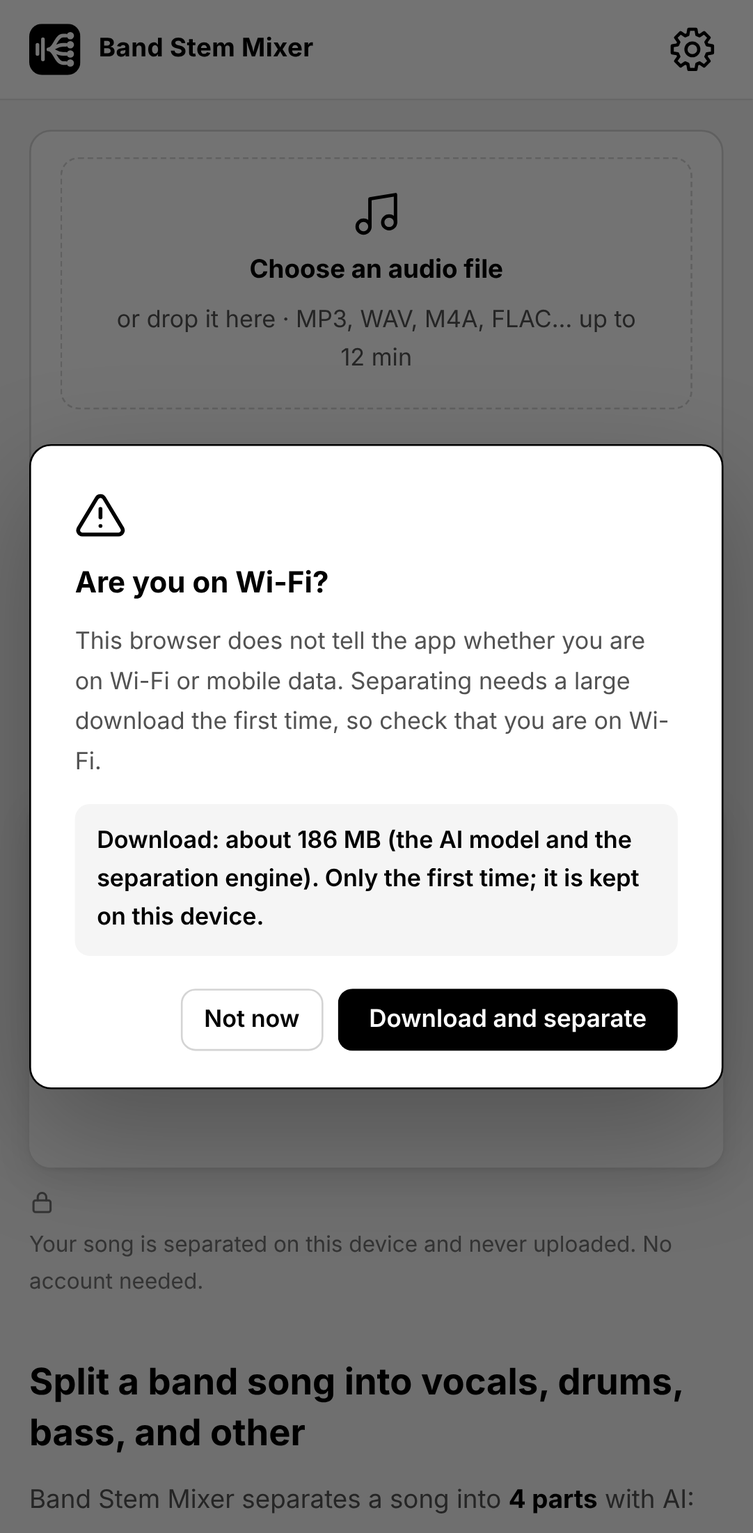
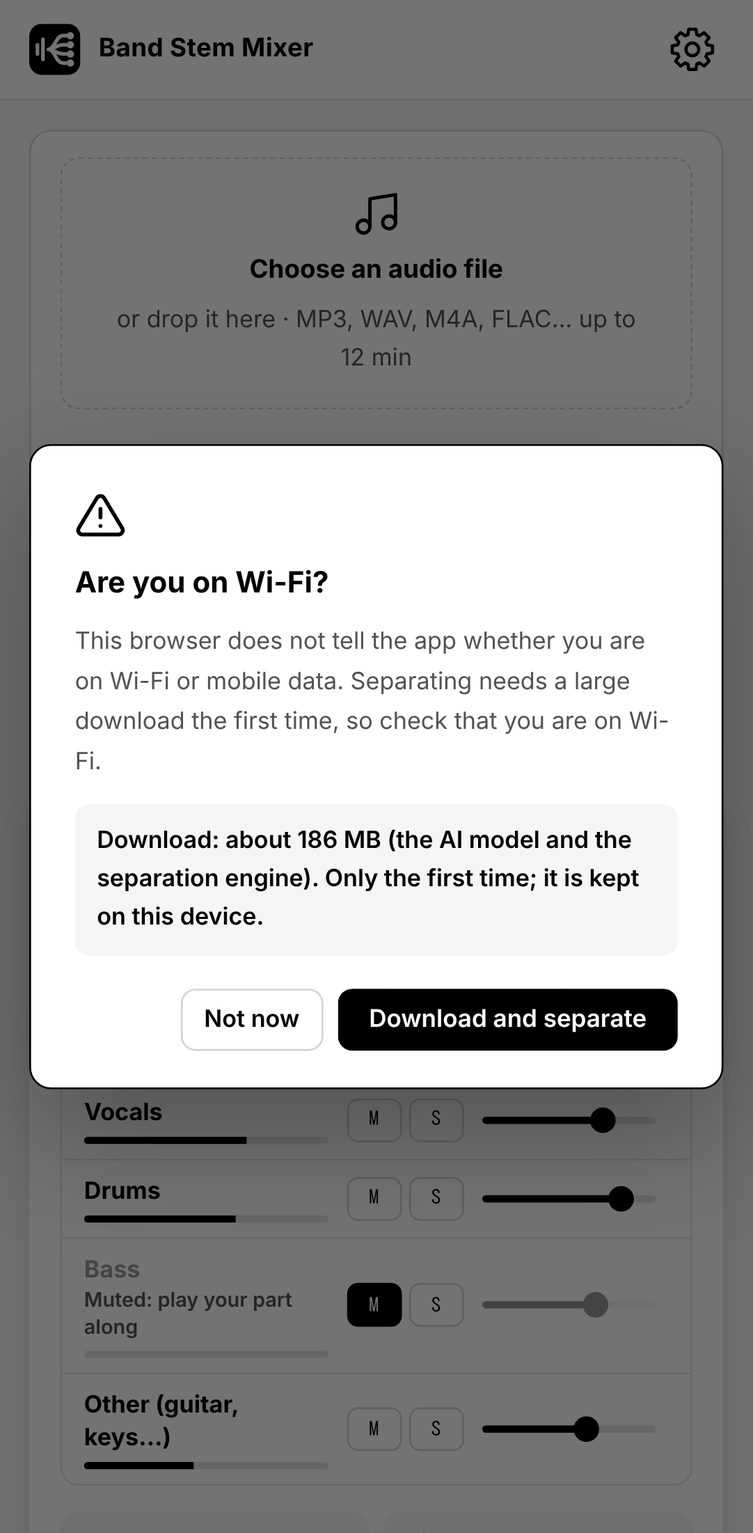
初期画面に「分離するとできること」のプレビューを表示
ミキサー欄の空の状態を、分離後の画面の例（コード・旋律とハモリの表示、
4 パートのフェーダー、ベースをミュートした例）と、6 つの機能
（ミュート・ソロ・コードと BPM・ハモリ・キー・MP3 保存）のカード、
ファイルを選ぶボタンに替えた。ガイドの通信確認の画面写真を撮り直し。

Claude-Session: https://claude.ai/code/session_01FBcjAgg3NqmVihitPpuDYB

diff --git a/public/bandstemmixer/ja/index.html b/public/bandstemmixer/ja/index.html
@@ -159,9 +159,46 @@
     .progress .row { display: flex; justify-content: space-between; align-items: center; gap: 8px; }
 
     /* Mixer panel */
-    .empty { padding: 40px 24px; text-align: center; color: var(--subtle); font-size: 13px; }
-    .empty .slots { display: flex; justify-content: center; gap: 8px; margin-bottom: 14px; }
-    .empty .slots span { width: 10px; height: 44px; border-radius: 5px; background: var(--line); }
+    /* Before separating: a picture of the mixer you get, and what you can do with it */
+    .empty { padding: 18px 16px 20px; display: flex; flex-direction: column; gap: 14px; }
+    .preview-head { display: flex; align-items: center; justify-content: space-between; gap: 8px; }
+    .preview-head h2 { margin: 0; font-size: 15px; line-height: 1.4; }
+    .badge { flex: none; padding: 0 8px; border: 1px solid var(--line-strong); border-radius: 999px; color: var(--subtle); font-size: 11px; line-height: 20px; }
+    .mock { border: 1px solid var(--line); border-radius: 10px; overflow: hidden; user-select: none; -webkit-user-select: none; pointer-events: none; }
+    .mock-roll { padding: 10px 12px 8px; border-bottom: 1px solid var(--line); }
+    .mock-chords { position: relative; display: grid; grid-template-columns: repeat(4, minmax(0, 1fr)); font-size: 14px; font-weight: 700; line-height: 1.4; }
+    .mock-chords em { position: absolute; right: 0; top: 1px; color: var(--subtle); font: 600 11px var(--mono); }
+    .mock-roll svg { display: block; width: 100%; height: 60px; }
+    .mock-roll svg * { vector-effect: non-scaling-stroke; }
+    .mock-roll .ink { fill: var(--ink); }
+    .mock-roll .tick { stroke: var(--line-strong); stroke-width: 1; }
+    .mock-roll .mel { fill: none; stroke: var(--subtle); stroke-width: 2; stroke-linecap: round; stroke-linejoin: round; }
+    .mock-strip { display: grid; grid-template-columns: minmax(84px, 150px) auto minmax(0, 1fr); align-items: center; gap: 12px; padding: 8px 12px; border-bottom: 1px solid var(--line); }
+    .mock-strip:last-child { border-bottom: 0; }
+    @media (max-width: 560px) { .mock-strip { grid-template-columns: minmax(0, 1fr) auto 32%; gap: 10px; } }
+    .mock-strip .sname b { font-size: 13px; line-height: 1.4; }
+    .mock-strip .sname small { color: var(--muted); font-size: 11px; font-weight: 600; line-height: 1.4; }
+    .mock-ms { display: flex; gap: 4px; }
+    .mock-ms span { width: 30px; height: 24px; border: 1px solid var(--line-strong); border-radius: 6px; font: 600 11px var(--mono); display: inline-flex; align-items: center; justify-content: center; }
+    .mock-ms span.on { background: var(--ink); border-color: var(--ink); color: var(--paper); }
+    .mock-fader { position: relative; height: 4px; margin-right: 7px; border-radius: 2px; background: var(--line); }
+    .mock-fader i { position: absolute; left: 0; top: 0; bottom: 0; width: var(--v); border-radius: 2px; background: var(--ink); }
+    .mock-fader i::after { content: ""; position: absolute; right: -7px; top: -5px; width: 14px; height: 14px; border-radius: 50%; background: var(--ink); }
+    .mock-strip.off b, .mock-strip.off .mock-fader { opacity: .4; }
+    /* Level meters move a little, so it reads as music playing */
+    .mock-strip .meter > div { width: 40%; animation: meter 1.1s ease-in-out infinite alternate; }
+    .mock-strip:nth-child(3) .meter > div { animation-duration: .7s; }
+    .mock-strip:nth-child(5) .meter > div { animation-duration: 1.4s; animation-delay: -.5s; }
+    .mock-strip.off .meter > div { width: 0; animation: none; }
+    @keyframes meter { 0% { width: 25%; } 50% { width: 70%; } 100% { width: 45%; } }
+    .feats { display: grid; grid-template-columns: repeat(3, minmax(0, 1fr)); gap: 8px; margin: 0; padding: 0; list-style: none; }
+    @media (max-width: 560px) { .feats { grid-template-columns: repeat(2, minmax(0, 1fr)); } }
+    .feat { display: flex; flex-direction: column; gap: 2px; padding: 10px 12px 12px; border-radius: 10px; background: var(--hover-fill); }
+    .feat svg { flex: none; margin-bottom: 4px; color: var(--ink); }
+    .feat b { font-size: 13px; line-height: 1.4; }
+    .feat span { color: var(--muted); font-size: 12px; line-height: 1.5; }
+    .preview-cta { display: flex; flex-direction: column; align-items: center; gap: 6px; text-align: center; }
+    .preview-cta .primary { height: 44px; padding: 0 22px; font-size: 14px; }
     .transport { display: flex; align-items: center; gap: 12px; padding: 14px 16px; border-bottom: 1px solid var(--line); }
     .play { appearance: none; width: 52px; height: 52px; flex: none; border: 0; border-radius: 50%; background: var(--ink); color: var(--paper); cursor: pointer; display: inline-flex; align-items: center; justify-content: center; touch-action: manipulation; }
     .play:active:not(:disabled) { background: var(--press); }
@@ -292,8 +329,52 @@
 
       <section class="panel out" aria-label="ミキサー" data-i18n-attr="aria-label:mixer">
         <div class="empty" id="empty">
-          <div class="slots" aria-hidden="true"><span></span><span></span><span></span><span></span><span></span><span></span></div>
-          <span data-i18n="empty">曲を選んで分離すると、ボーカル・ベース・ドラム・その他（ギター・鍵盤など）がここに並び、それぞれの音量を変えられます。</span>
+          <div class="preview-head">
+            <h2 data-i18n="preview.title">分離すると、こんなことができます</h2>
+            <span class="badge" data-i18n="preview.badge">画面の例</span>
+          </div>
+          <div class="mock" aria-hidden="true">
+            <div class="mock-roll">
+              <div class="mock-chords"><span>Am</span><span>F</span><span>C</span><span>G</span><em>BPM 120</em></div>
+              <svg viewBox="0 0 400 54" preserveAspectRatio="none" aria-hidden="true">
+                <path class="tick" d="M0 4.5h400M25 2v5M50 2v5M75 2v5M100 2v5M125 2v5M150 2v5M175 2v5M200 2v5M225 2v5M250 2v5M275 2v5M300 2v5M325 2v5M350 2v5M375 2v5"/>
+                <g class="ink"><rect x="4" y="24" width="42" height="5" rx="2.5"/><rect x="52" y="20" width="42" height="5" rx="2.5"/><rect x="104" y="28" width="66" height="5" rx="2.5"/><rect x="176" y="24" width="20" height="5" rx="2.5"/><rect x="204" y="20" width="44" height="5" rx="2.5"/><rect x="254" y="16" width="40" height="5" rx="2.5"/><rect x="304" y="24" width="44" height="5" rx="2.5"/><rect x="354" y="28" width="42" height="5" rx="2.5"/></g>
+                <path class="mel" d="M4 42h42M52 38c3 0 4-0.5 6-0.5h36M104 48h64M176 42h20M204 38h44M254 34c2 0 3 1 6 1h34M304 42h44M354 48c2 0 3 1 6 0 3-1 4 1 6 0s4 1 6 0 4-1 6 0h12"/>
+              </svg>
+            </div>
+              <div class="mock-strip">
+                <div class="sname"><b data-i18n="stem.vocals">ボーカル</b><div class="meter"><div></div></div></div>
+                <div class="mock-ms"><span class="">M</span><span class="">S</span></div>
+                <div class="mock-fader"><i style="--v:70%"></i></div>
+              </div>
+              <div class="mock-strip">
+                <div class="sname"><b data-i18n="stem.drums">ドラム</b><div class="meter"><div></div></div></div>
+                <div class="mock-ms"><span class="">M</span><span class="">S</span></div>
+                <div class="mock-fader"><i style="--v:80%"></i></div>
+              </div>
+              <div class="mock-strip off">
+                <div class="sname"><b data-i18n="stem.bass">ベース</b><small data-i18n="preview.muted">ミュート中：自分で弾いて合わせる</small><div class="meter"><div></div></div></div>
+                <div class="mock-ms"><span class="on">M</span><span class="">S</span></div>
+                <div class="mock-fader"><i style="--v:65%"></i></div>
+              </div>
+              <div class="mock-strip">
+                <div class="sname"><b data-i18n="stem.other">その他（ギター・鍵盤など）</b><div class="meter"><div></div></div></div>
+                <div class="mock-ms"><span class="">M</span><span class="">S</span></div>
+                <div class="mock-fader"><i style="--v:60%"></i></div>
+              </div>
+          </div>
+          <ul class="feats">
+            <li class="feat"><svg width="20" height="20" viewBox="0 0 24 24" fill="none" stroke="currentColor" stroke-width="1.8" stroke-linecap="round" stroke-linejoin="round" aria-hidden="true"><path d="M11 5 6 9H3v6h3l5 4z"/><path d="m16 9 6 6M22 9l-6 6"/></svg><b data-i18n="feat.mute.t">自分のパートを消す</b><span data-i18n="feat.mute.d">残りのパートに合わせて演奏できます（マイナスワン）。ボーカルを消せばカラオケにも。</span></li>
+            <li class="feat"><svg width="20" height="20" viewBox="0 0 24 24" fill="none" stroke="currentColor" stroke-width="1.8" stroke-linecap="round" stroke-linejoin="round" aria-hidden="true"><path d="M3 18v-6a9 9 0 0 1 18 0v6"/><path d="M21 19a2 2 0 0 1-2 2h-1v-6h3zM3 19a2 2 0 0 0 2 2h1v-6H3z"/></svg><b data-i18n="feat.solo.t">ソロで耳コピ</b><span data-i18n="feat.solo.d">ベースやドラムだけを聴いて、フレーズを聴き取れます。</span></li>
+            <li class="feat"><svg width="20" height="20" viewBox="0 0 24 24" fill="none" stroke="currentColor" stroke-width="1.8" stroke-linecap="round" stroke-linejoin="round" aria-hidden="true"><rect x="3" y="4" width="18" height="16" rx="2"/><path d="M9 4v16M15 4v16"/><path d="M7 4v9M11 4v9M17 4v9" stroke-width="3"/></svg><b data-i18n="feat.chords.t">コードと BPM</b><span data-i18n="feat.chords.d">テンポと、拍ごとのコードを推定します。コードは編集できます。</span></li>
+            <li class="feat"><svg width="20" height="20" viewBox="0 0 24 24" fill="none" stroke="currentColor" stroke-width="1.8" stroke-linecap="round" stroke-linejoin="round" aria-hidden="true"><path d="M9 18V5l12-2v13"/><circle cx="6" cy="18" r="3"/><circle cx="18" cy="16" r="3"/></svg><b data-i18n="feat.harm.t">ハモリを作る</b><span data-i18n="feat.harm.d">ボーカルの 3 度・5 度上（下）のハモリを、歌った人の声とガイド音で作ります。</span></li>
+            <li class="feat"><svg width="20" height="20" viewBox="0 0 24 24" fill="none" stroke="currentColor" stroke-width="1.8" stroke-linecap="round" stroke-linejoin="round" aria-hidden="true"><path d="m7 9 5-5 5 5M7 15l5 5 5-5"/></svg><b data-i18n="feat.key.t">キーを変える</b><span data-i18n="feat.key.d">テンポはそのまま、最大 1 オクターブ上げ下げできます。</span></li>
+            <li class="feat"><svg width="20" height="20" viewBox="0 0 24 24" fill="none" stroke="currentColor" stroke-width="1.8" stroke-linecap="round" stroke-linejoin="round" aria-hidden="true"><path d="M12 3v12"/><path d="m7 10 5 5 5-5"/><path d="M5 21h14"/></svg><b data-i18n="feat.save.t">MP3 で保存</b><span data-i18n="feat.save.d">パートごとに、または作ったミックスを保存できます。</span></li>
+          </ul>
+          <div class="preview-cta">
+            <button class="primary" id="previewPick" type="button" data-i18n="preview.cta">曲を選んで試してみる</button>
+            <span class="hint" data-i18n="empty">曲はこの端末の中で、ボーカル・ドラム・ベース・その他（ギター・鍵盤など）に分かれます。</span>
+          </div>
         </div>
         <div id="mixer" hidden>
           <div class="transport">
@@ -518,7 +599,23 @@
           "done": "Done in {time}. Press play.",
           "canceled": "Separation canceled.",
           "mixer": "Mixer",
-          "empty": "Choose a song and separate it. Vocals, bass, drums, and other (guitar, keys…) appear here, each with its own fader.",
+          "empty": "Your song is split into vocals, drums, bass, and other (guitar, keys…) on this device.",
+          "preview.title": "What you can do after separating",
+          "preview.badge": "Example",
+          "preview.muted": "Muted: play your part along",
+          "preview.cta": "Choose a song and try it",
+          "feat.mute.t": "Mute your part",
+          "feat.mute.d": "Play along with the rest of the band (a minus-one track), or turn off the vocals for karaoke.",
+          "feat.solo.t": "Solo to learn by ear",
+          "feat.solo.d": "Hear only the bass or the drums to copy a phrase.",
+          "feat.chords.t": "Chords & BPM",
+          "feat.chords.d": "The tempo and a chord on every beat, which you can edit.",
+          "feat.harm.t": "Make a harmony",
+          "feat.harm.d": "A 3rd or a 5th above or below the vocals, in the singer's own voice and as a guide tone.",
+          "feat.key.t": "Change the key",
+          "feat.key.d": "Up or down by up to an octave, without changing the tempo.",
+          "feat.save.t": "Save as MP3",
+          "feat.save.d": "Each part, or the mix you made.",
           "play": "Play",
           "pause": "Stop",
           "position": "Position",
@@ -661,7 +758,23 @@
           "done": "{time} で分離しました。再生してください。",
           "canceled": "分離をキャンセルしました。",
           "mixer": "ミキサー",
-          "empty": "曲を選んで分離すると、ボーカル・ベース・ドラム・その他（ギター・鍵盤など）がここに並び、それぞれの音量を変えられます。",
+          "empty": "曲はこの端末の中で、ボーカル・ドラム・ベース・その他（ギター・鍵盤など）に分かれます。",
+          "preview.title": "分離すると、こんなことができます",
+          "preview.badge": "画面の例",
+          "preview.muted": "ミュート中：自分で弾いて合わせる",
+          "preview.cta": "曲を選んで試してみる",
+          "feat.mute.t": "自分のパートを消す",
+          "feat.mute.d": "残りのパートに合わせて演奏できます（マイナスワン）。ボーカルを消せばカラオケにも。",
+          "feat.solo.t": "ソロで耳コピ",
+          "feat.solo.d": "ベースやドラムだけを聴いて、フレーズを聴き取れます。",
+          "feat.chords.t": "コードと BPM",
+          "feat.chords.d": "テンポと、拍ごとのコードを推定します。コードは編集できます。",
+          "feat.harm.t": "ハモリを作る",
+          "feat.harm.d": "ボーカルの 3 度・5 度上（下）のハモリを、歌った人の声とガイド音で作ります。",
+          "feat.key.t": "キーを変える",
+          "feat.key.d": "テンポはそのまま、最大 1 オクターブ上げ下げできます。",
+          "feat.save.t": "MP3 で保存",
+          "feat.save.d": "パートごとに、または作ったミックスを保存できます。",
           "play": "再生",
           "pause": "停止",
           "position": "再生位置",
@@ -979,6 +1092,7 @@
           }
           mix = d;
           fileOk = true;
+          $("previewPick").hidden = true; // the next step is "Separate into 4 parts" in the song panel
           songSec = d.duration;
           $("runBtn").disabled = false;
         } catch (e) {
@@ -995,6 +1109,8 @@
         chooseFile(fileInput.files && fileInput.files[0]);
         fileInput.value = "";
       });
+      // The button under the preview of the mixer opens the same file picker
+      $("previewPick").addEventListener("click", function () { fileInput.click(); });
       const drop = $("drop");
       ["dragenter", "dragover"].forEach(function (ev) {
         drop.addEventListener(ev, function (e) { e.preventDefault(); drop.classList.add("over"); });

diff --git a/public/bandstemmixer/index.html b/public/bandstemmixer/index.html
@@ -157,9 +157,46 @@
     .progress .row { display: flex; justify-content: space-between; align-items: center; gap: 8px; }
 
     /* Mixer panel */
-    .empty { padding: 40px 24px; text-align: center; color: var(--subtle); font-size: 13px; }
-    .empty .slots { display: flex; justify-content: center; gap: 8px; margin-bottom: 14px; }
-    .empty .slots span { width: 10px; height: 44px; border-radius: 5px; background: var(--line); }
+    /* Before separating: a picture of the mixer you get, and what you can do with it */
+    .empty { padding: 18px 16px 20px; display: flex; flex-direction: column; gap: 14px; }
+    .preview-head { display: flex; align-items: center; justify-content: space-between; gap: 8px; }
+    .preview-head h2 { margin: 0; font-size: 15px; line-height: 1.4; }
+    .badge { flex: none; padding: 0 8px; border: 1px solid var(--line-strong); border-radius: 999px; color: var(--subtle); font-size: 11px; line-height: 20px; }
+    .mock { border: 1px solid var(--line); border-radius: 10px; overflow: hidden; user-select: none; -webkit-user-select: none; pointer-events: none; }
+    .mock-roll { padding: 10px 12px 8px; border-bottom: 1px solid var(--line); }
+    .mock-chords { position: relative; display: grid; grid-template-columns: repeat(4, minmax(0, 1fr)); font-size: 14px; font-weight: 700; line-height: 1.4; }
+    .mock-chords em { position: absolute; right: 0; top: 1px; color: var(--subtle); font: 600 11px var(--mono); }
+    .mock-roll svg { display: block; width: 100%; height: 60px; }
+    .mock-roll svg * { vector-effect: non-scaling-stroke; }
+    .mock-roll .ink { fill: var(--ink); }
+    .mock-roll .tick { stroke: var(--line-strong); stroke-width: 1; }
+    .mock-roll .mel { fill: none; stroke: var(--subtle); stroke-width: 2; stroke-linecap: round; stroke-linejoin: round; }
+    .mock-strip { display: grid; grid-template-columns: minmax(84px, 150px) auto minmax(0, 1fr); align-items: center; gap: 12px; padding: 8px 12px; border-bottom: 1px solid var(--line); }
+    .mock-strip:last-child { border-bottom: 0; }
+    @media (max-width: 560px) { .mock-strip { grid-template-columns: minmax(0, 1fr) auto 32%; gap: 10px; } }
+    .mock-strip .sname b { font-size: 13px; line-height: 1.4; }
+    .mock-strip .sname small { color: var(--muted); font-size: 11px; font-weight: 600; line-height: 1.4; }
+    .mock-ms { display: flex; gap: 4px; }
+    .mock-ms span { width: 30px; height: 24px; border: 1px solid var(--line-strong); border-radius: 6px; font: 600 11px var(--mono); display: inline-flex; align-items: center; justify-content: center; }
+    .mock-ms span.on { background: var(--ink); border-color: var(--ink); color: var(--paper); }
+    .mock-fader { position: relative; height: 4px; margin-right: 7px; border-radius: 2px; background: var(--line); }
+    .mock-fader i { position: absolute; left: 0; top: 0; bottom: 0; width: var(--v); border-radius: 2px; background: var(--ink); }
+    .mock-fader i::after { content: ""; position: absolute; right: -7px; top: -5px; width: 14px; height: 14px; border-radius: 50%; background: var(--ink); }
+    .mock-strip.off b, .mock-strip.off .mock-fader { opacity: .4; }
+    /* Level meters move a little, so it reads as music playing */
+    .mock-strip .meter > div { width: 40%; animation: meter 1.1s ease-in-out infinite alternate; }
+    .mock-strip:nth-child(3) .meter > div { animation-duration: .7s; }
+    .mock-strip:nth-child(5) .meter > div { animation-duration: 1.4s; animation-delay: -.5s; }
+    .mock-strip.off .meter > div { width: 0; animation: none; }
+    @keyframes meter { 0% { width: 25%; } 50% { width: 70%; } 100% { width: 45%; } }
+    .feats { display: grid; grid-template-columns: repeat(3, minmax(0, 1fr)); gap: 8px; margin: 0; padding: 0; list-style: none; }
+    @media (max-width: 560px) { .feats { grid-template-columns: repeat(2, minmax(0, 1fr)); } }
+    .feat { display: flex; flex-direction: column; gap: 2px; padding: 10px 12px 12px; border-radius: 10px; background: var(--hover-fill); }
+    .feat svg { flex: none; margin-bottom: 4px; color: var(--ink); }
+    .feat b { font-size: 13px; line-height: 1.4; }
+    .feat span { color: var(--muted); font-size: 12px; line-height: 1.5; }
+    .preview-cta { display: flex; flex-direction: column; align-items: center; gap: 6px; text-align: center; }
+    .preview-cta .primary { height: 44px; padding: 0 22px; font-size: 14px; }
     .transport { display: flex; align-items: center; gap: 12px; padding: 14px 16px; border-bottom: 1px solid var(--line); }
     .play { appearance: none; width: 52px; height: 52px; flex: none; border: 0; border-radius: 50%; background: var(--ink); color: var(--paper); cursor: pointer; display: inline-flex; align-items: center; justify-content: center; touch-action: manipulation; }
     .play:active:not(:disabled) { background: var(--press); }
@@ -290,8 +327,52 @@
 
       <section class="panel out" aria-label="Mixer" data-i18n-attr="aria-label:mixer">
         <div class="empty" id="empty">
-          <div class="slots" aria-hidden="true"><span></span><span></span><span></span><span></span><span></span><span></span></div>
-          <span data-i18n="empty">Choose a song and separate it. Vocals, bass, drums, and other (guitar, keys…) appear here, each with its own fader.</span>
+          <div class="preview-head">
+            <h2 data-i18n="preview.title">What you can do after separating</h2>
+            <span class="badge" data-i18n="preview.badge">Example</span>
+          </div>
+          <div class="mock" aria-hidden="true">
+            <div class="mock-roll">
+              <div class="mock-chords"><span>Am</span><span>F</span><span>C</span><span>G</span><em>BPM 120</em></div>
+              <svg viewBox="0 0 400 54" preserveAspectRatio="none" aria-hidden="true">
+                <path class="tick" d="M0 4.5h400M25 2v5M50 2v5M75 2v5M100 2v5M125 2v5M150 2v5M175 2v5M200 2v5M225 2v5M250 2v5M275 2v5M300 2v5M325 2v5M350 2v5M375 2v5"/>
+                <g class="ink"><rect x="4" y="24" width="42" height="5" rx="2.5"/><rect x="52" y="20" width="42" height="5" rx="2.5"/><rect x="104" y="28" width="66" height="5" rx="2.5"/><rect x="176" y="24" width="20" height="5" rx="2.5"/><rect x="204" y="20" width="44" height="5" rx="2.5"/><rect x="254" y="16" width="40" height="5" rx="2.5"/><rect x="304" y="24" width="44" height="5" rx="2.5"/><rect x="354" y="28" width="42" height="5" rx="2.5"/></g>
+                <path class="mel" d="M4 42h42M52 38c3 0 4-0.5 6-0.5h36M104 48h64M176 42h20M204 38h44M254 34c2 0 3 1 6 1h34M304 42h44M354 48c2 0 3 1 6 0 3-1 4 1 6 0s4 1 6 0 4-1 6 0h12"/>
+              </svg>
+            </div>
+              <div class="mock-strip">
+                <div class="sname"><b data-i18n="stem.vocals">Vocals</b><div class="meter"><div></div></div></div>
+                <div class="mock-ms"><span class="">M</span><span class="">S</span></div>
+                <div class="mock-fader"><i style="--v:70%"></i></div>
+              </div>
+              <div class="mock-strip">
+                <div class="sname"><b data-i18n="stem.drums">Drums</b><div class="meter"><div></div></div></div>
+                <div class="mock-ms"><span class="">M</span><span class="">S</span></div>
+                <div class="mock-fader"><i style="--v:80%"></i></div>
+              </div>
+              <div class="mock-strip off">
+                <div class="sname"><b data-i18n="stem.bass">Bass</b><small data-i18n="preview.muted">Muted: play your part along</small><div class="meter"><div></div></div></div>
+                <div class="mock-ms"><span class="on">M</span><span class="">S</span></div>
+                <div class="mock-fader"><i style="--v:65%"></i></div>
+              </div>
+              <div class="mock-strip">
+                <div class="sname"><b data-i18n="stem.other">Other (guitar, keys…)</b><div class="meter"><div></div></div></div>
+                <div class="mock-ms"><span class="">M</span><span class="">S</span></div>
+                <div class="mock-fader"><i style="--v:60%"></i></div>
+              </div>
+          </div>
+          <ul class="feats">
+            <li class="feat"><svg width="20" height="20" viewBox="0 0 24 24" fill="none" stroke="currentColor" stroke-width="1.8" stroke-linecap="round" stroke-linejoin="round" aria-hidden="true"><path d="M11 5 6 9H3v6h3l5 4z"/><path d="m16 9 6 6M22 9l-6 6"/></svg><b data-i18n="feat.mute.t">Mute your part</b><span data-i18n="feat.mute.d">Play along with the rest of the band (a minus-one track), or turn off the vocals for karaoke.</span></li>
+            <li class="feat"><svg width="20" height="20" viewBox="0 0 24 24" fill="none" stroke="currentColor" stroke-width="1.8" stroke-linecap="round" stroke-linejoin="round" aria-hidden="true"><path d="M3 18v-6a9 9 0 0 1 18 0v6"/><path d="M21 19a2 2 0 0 1-2 2h-1v-6h3zM3 19a2 2 0 0 0 2 2h1v-6H3z"/></svg><b data-i18n="feat.solo.t">Solo to learn by ear</b><span data-i18n="feat.solo.d">Hear only the bass or the drums to copy a phrase.</span></li>
+            <li class="feat"><svg width="20" height="20" viewBox="0 0 24 24" fill="none" stroke="currentColor" stroke-width="1.8" stroke-linecap="round" stroke-linejoin="round" aria-hidden="true"><rect x="3" y="4" width="18" height="16" rx="2"/><path d="M9 4v16M15 4v16"/><path d="M7 4v9M11 4v9M17 4v9" stroke-width="3"/></svg><b data-i18n="feat.chords.t">Chords &amp; BPM</b><span data-i18n="feat.chords.d">The tempo and a chord on every beat, which you can edit.</span></li>
+            <li class="feat"><svg width="20" height="20" viewBox="0 0 24 24" fill="none" stroke="currentColor" stroke-width="1.8" stroke-linecap="round" stroke-linejoin="round" aria-hidden="true"><path d="M9 18V5l12-2v13"/><circle cx="6" cy="18" r="3"/><circle cx="18" cy="16" r="3"/></svg><b data-i18n="feat.harm.t">Make a harmony</b><span data-i18n="feat.harm.d">A 3rd or a 5th above or below the vocals, in the singer's own voice and as a guide tone.</span></li>
+            <li class="feat"><svg width="20" height="20" viewBox="0 0 24 24" fill="none" stroke="currentColor" stroke-width="1.8" stroke-linecap="round" stroke-linejoin="round" aria-hidden="true"><path d="m7 9 5-5 5 5M7 15l5 5 5-5"/></svg><b data-i18n="feat.key.t">Change the key</b><span data-i18n="feat.key.d">Up or down by up to an octave, without changing the tempo.</span></li>
+            <li class="feat"><svg width="20" height="20" viewBox="0 0 24 24" fill="none" stroke="currentColor" stroke-width="1.8" stroke-linecap="round" stroke-linejoin="round" aria-hidden="true"><path d="M12 3v12"/><path d="m7 10 5 5 5-5"/><path d="M5 21h14"/></svg><b data-i18n="feat.save.t">Save as MP3</b><span data-i18n="feat.save.d">Each part, or the mix you made.</span></li>
+          </ul>
+          <div class="preview-cta">
+            <button class="primary" id="previewPick" type="button" data-i18n="preview.cta">Choose a song and try it</button>
+            <span class="hint" data-i18n="empty">Your song is split into vocals, drums, bass, and other (guitar, keys…) on this device.</span>
+          </div>
         </div>
         <div id="mixer" hidden>
           <div class="transport">
@@ -522,7 +603,23 @@
           "done": "Done in {time}. Press play.",
           "canceled": "Separation canceled.",
           "mixer": "Mixer",
-          "empty": "Choose a song and separate it. Vocals, bass, drums, and other (guitar, keys…) appear here, each with its own fader.",
+          "empty": "Your song is split into vocals, drums, bass, and other (guitar, keys…) on this device.",
+          "preview.title": "What you can do after separating",
+          "preview.badge": "Example",
+          "preview.muted": "Muted: play your part along",
+          "preview.cta": "Choose a song and try it",
+          "feat.mute.t": "Mute your part",
+          "feat.mute.d": "Play along with the rest of the band (a minus-one track), or turn off the vocals for karaoke.",
+          "feat.solo.t": "Solo to learn by ear",
+          "feat.solo.d": "Hear only the bass or the drums to copy a phrase.",
+          "feat.chords.t": "Chords & BPM",
+          "feat.chords.d": "The tempo and a chord on every beat, which you can edit.",
+          "feat.harm.t": "Make a harmony",
+          "feat.harm.d": "A 3rd or a 5th above or below the vocals, in the singer's own voice and as a guide tone.",
+          "feat.key.t": "Change the key",
+          "feat.key.d": "Up or down by up to an octave, without changing the tempo.",
+          "feat.save.t": "Save as MP3",
+          "feat.save.d": "Each part, or the mix you made.",
           "play": "Play",
           "pause": "Stop",
           "position": "Position",
@@ -665,7 +762,23 @@
           "done": "{time} で分離しました。再生してください。",
           "canceled": "分離をキャンセルしました。",
           "mixer": "ミキサー",
-          "empty": "曲を選んで分離すると、ボーカル・ベース・ドラム・その他（ギター・鍵盤など）がここに並び、それぞれの音量を変えられます。",
+          "empty": "曲はこの端末の中で、ボーカル・ドラム・ベース・その他（ギター・鍵盤など）に分かれます。",
+          "preview.title": "分離すると、こんなことができます",
+          "preview.badge": "画面の例",
+          "preview.muted": "ミュート中：自分で弾いて合わせる",
+          "preview.cta": "曲を選んで試してみる",
+          "feat.mute.t": "自分のパートを消す",
+          "feat.mute.d": "残りのパートに合わせて演奏できます（マイナスワン）。ボーカルを消せばカラオケにも。",
+          "feat.solo.t": "ソロで耳コピ",
+          "feat.solo.d": "ベースやドラムだけを聴いて、フレーズを聴き取れます。",
+          "feat.chords.t": "コードと BPM",
+          "feat.chords.d": "テンポと、拍ごとのコードを推定します。コードは編集できます。",
+          "feat.harm.t": "ハモリを作る",
+          "feat.harm.d": "ボーカルの 3 度・5 度上（下）のハモリを、歌った人の声とガイド音で作ります。",
+          "feat.key.t": "キーを変える",
+          "feat.key.d": "テンポはそのまま、最大 1 オクターブ上げ下げできます。",
+          "feat.save.t": "MP3 で保存",
+          "feat.save.d": "パートごとに、または作ったミックスを保存できます。",
           "play": "再生",
           "pause": "停止",
           "position": "再生位置",
@@ -983,6 +1096,7 @@
           }
           mix = d;
           fileOk = true;
+          $("previewPick").hidden = true; // the next step is "Separate into 4 parts" in the song panel
           songSec = d.duration;
           $("runBtn").disabled = false;
         } catch (e) {
@@ -999,6 +1113,8 @@
         chooseFile(fileInput.files && fileInput.files[0]);
         fileInput.value = "";
       });
+      // The button under the preview of the mixer opens the same file picker
+      $("previewPick").addEventListener("click", function () { fileInput.click(); });
       const drop = $("drop");
       ["dragenter", "dragover"].forEach(function (ev) {
         drop.addEventListener(ev, function (e) { e.preventDefault(); drop.classList.add("over"); });
